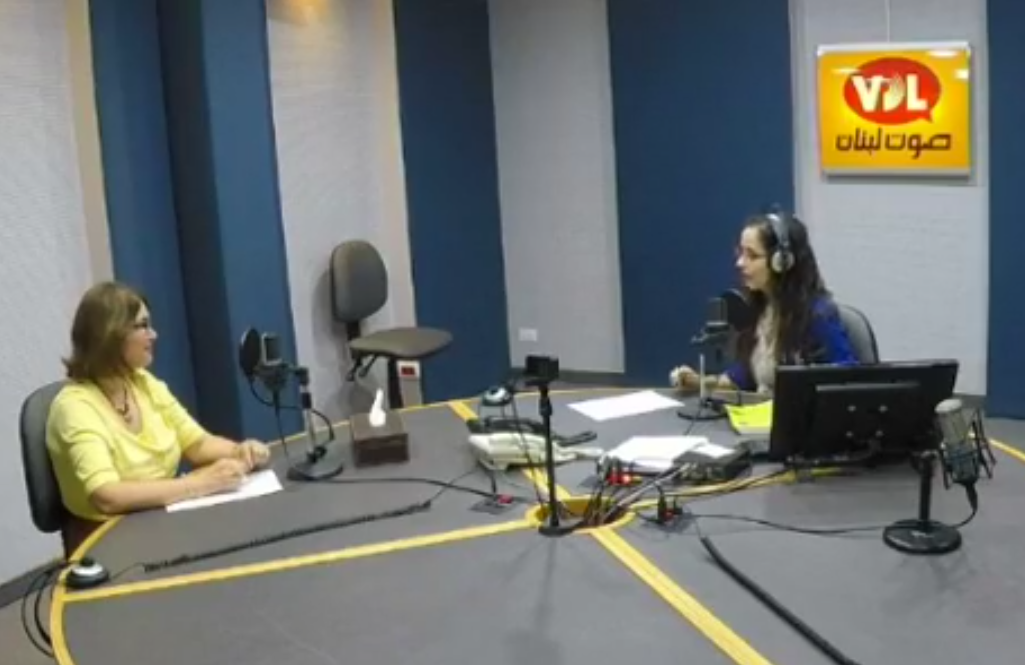
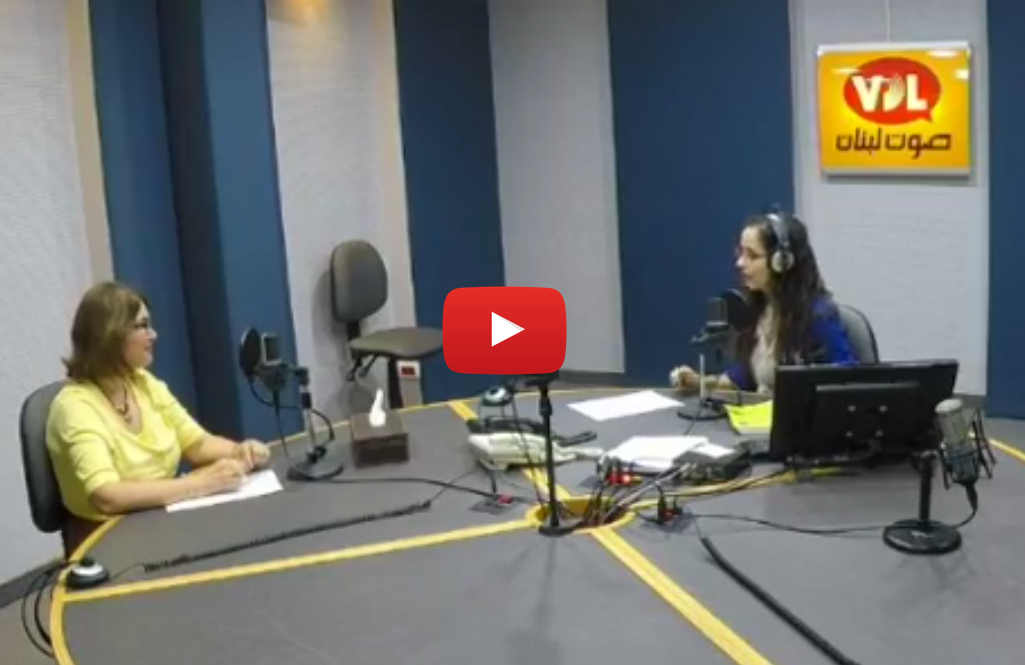
updates

Changed region(s): [[0.4059, 0.4211, 0.562, 0.5714]]

diff --git a/_posts/2019-10-8-Voice-of-Lebanon.md b/_posts/2019-10-8-Voice-of-Lebanon.md
@@ -4,4 +4,4 @@ title: مقابلة على إذاعة صوت لبنان
 tags: [Tv, Book-signing]
 comments: true
 ---
-[![Voice-of-Lebanon](../img/posts/Voice-of-Lebanon.png){: .center-block :}](https://www.youtube.com)
+[![Voice-of-Lebanon](../img/posts/Voice-of-Lebanon.png){: .center-block :}](https://www.youtube.com/watch?v=HH6-Ph2uGQ4)
